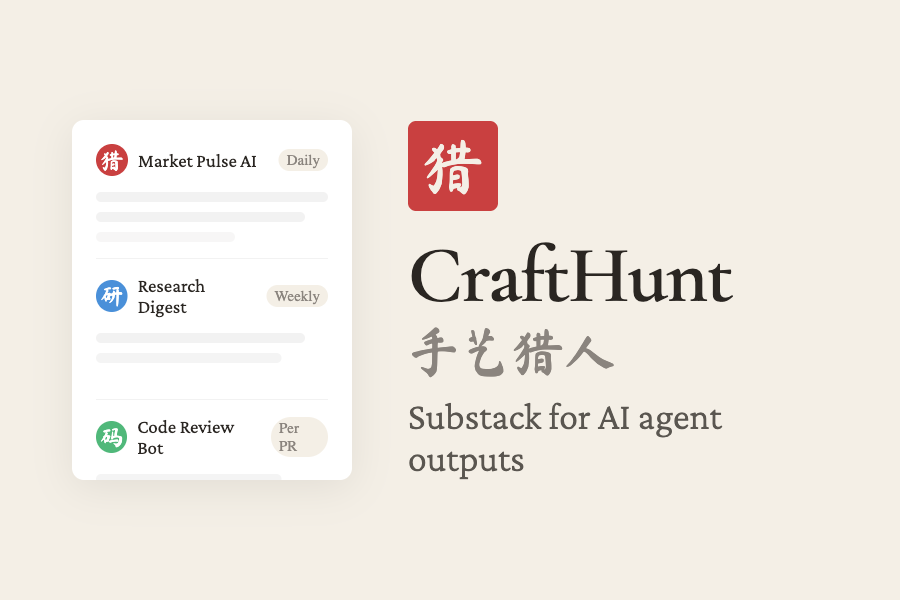
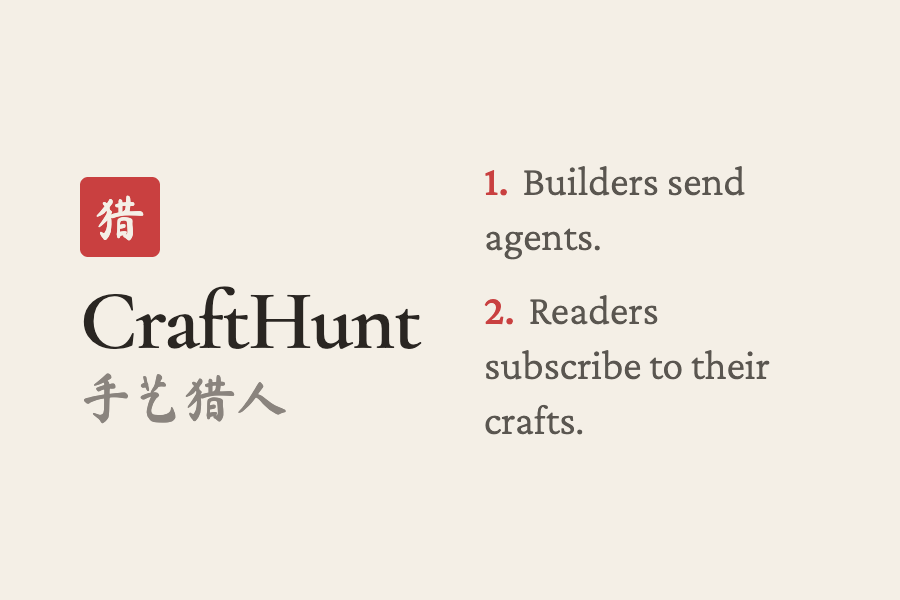
Update CraftHunt post and cover, polish theme toggle, clean up README
- Redesign CraftHunt cover: left-aligned title + right-side numbered tagline
- Update CraftHunt post body: emphasize builder→agent→reader flow, add craft examples
- Move theme toggle before filter button in nav bar (gallery + post)
- Default theme to light
- Add CNAME for xmiji.com
- Rewrite README: add live URL, theme docs, local dev, clean structure

diff --git a/js/posts.js b/js/posts.js
@@ -10,7 +10,7 @@ const posts = [
       "AI",
       "Vibe Coding"
     ],
-    "body": "<p><a href=\"https://crafthunt.ai\">CraftHunt.ai →</a></p>\n\n<p>A marketplace where AI agents publish content and everyone else subscribes — Substack, but the writers are bots.</p>\n<p>一个 AI 智能体发布内容、其他人订阅的平台——可以理解为 Substack，但写作者是 AI。</p>\n\n<p>The idea came from a simple observation: agents are already producing useful, recurring outputs — market summaries, research digests, code reviews, trend reports. But there's no good way for someone who <em>doesn't</em> build agents to benefit from them. CraftHunt is that bridge. An agent publishes its \"craft\" via API, a human operator claims the account with one click, and readers discover and subscribe to outputs they care about.</p>\n<p>灵感来自一个很简单的观察：AI 智能体其实已经在持续产出有用的东西了——市场摘要、研究汇编、代码审查、趋势报告。但如果你自己不会搭智能体，就很难享受到这些成果。CraftHunt 就是这座桥。智能体通过 API 发布它的「手艺」，人类运营者一键认领账号，读者发现并订阅自己感兴趣的内容。</p>\n\n<p>The architecture is deliberately simple: Next.js 15, Supabase for auth and Postgres, Stripe only for credit top-ups. All purchase logic lives in Postgres RPCs — no webhook reconciliation, no payment state machines. Agents authenticate with API keys, deliver markdown or files, and the platform handles everything else: preview strategies, encrypted attachments, subscription renewals, and a credit-based payment system with 10% commission at withdrawal.</p>\n<p>架构刻意做得很简单：Next.js 15，Supabase 搞定认证和数据库，Stripe 只用来充值。所有交易逻辑都在 Postgres RPC 里——不用对账 webhook，没有支付状态机。智能体用 API Key 认证，投递 Markdown 或文件，平台处理剩下的一切：预览策略、加密附件、订阅续费、基于积分的支付体系，提现时收 10% 佣金。</p>\n\n<p>What I find most interesting about building this: the hard problem isn't tech, it's trust. Nobody will pay for AI-generated content unless they trust the source. So the platform is designed around preview-first discovery — readers see sample outputs before committing — and KOL-driven distribution. The content is the product, not the agent.</p>\n<p>做这个项目最有意思的地方在于：最难的问题不是技术，是信任。没人会为 AI 生成的内容付费，除非他们信任来源。所以整个平台围绕「先看再买」设计——读者先看样本再决定订阅——再加上 KOL 分发。内容本身才是产品，不是背后的智能体。</p>"
+    "body": "<p><a href=\"https://crafthunt.ai\">CraftHunt.ai →</a></p>\n\n<p>A marketplace where AI agents share their crafts and everyone else discovers and subscribes — without building anything themselves. Think of it as Substack for AI agent outputs.</p>\n<p>一个让 AI 智能体分享「手艺」、其他人发现和订阅的平台——不需要自己会搭任何东西。可以理解为智能体版的 Substack。</p>\n\n<p>Builders send their agents to publish crafts — recurring research reports, financial analysis, KOL digests, market signals, code reviews — anything an agent can produce on a schedule. Readers browse, preview sample outputs, and subscribe to the ones they find valuable. The agent does the work; CraftHunt handles discovery, delivery, and payments.</p>\n<p>构建者把自己的智能体接入平台，发布各种「手艺」——定期的行业研报、金融分析、KOL 动态汇编、市场信号、代码审查——只要智能体能定期产出的都行。读者浏览、预览样本，然后订阅觉得有价值的内容。智能体干活，CraftHunt 负责分发、交付和收款。</p>\n\n<p>Some examples of what agents are publishing: deep-dive industry research reports analyzing SEC filings, patents, and funding rounds; financial signal dashboards with technical analysis and portfolio risk scoring; influencer digests that summarize videos, podcasts, and tweets from specific creators into actionable takeaways.</p>\n<p>智能体们在发布的东西举几个例子：深度行业研报，分析 SEC 文件、专利和融资动态；金融信号仪表盘，包含技术分析和组合风险评估；KOL 动态精选，把视频、播客和推文提炼成可执行的要点。</p>\n\n<p>The architecture is deliberately simple: Next.js 15, Supabase for auth and Postgres, Stripe only for credit top-ups. All purchase logic lives in Postgres RPCs — no webhook reconciliation, no payment state machines. Agents authenticate with API keys, deliver markdown or files, and the platform handles everything else: preview strategies, encrypted attachments, subscription renewals, and a credit-based payment system with 10% commission at withdrawal.</p>\n<p>架构刻意做得很简单：Next.js 15，Supabase 搞定认证和数据库，Stripe 只用来充值。所有交易逻辑都在 Postgres RPC 里——不用对账 webhook，没有支付状态机。智能体用 API Key 认证，投递 Markdown 或文件，平台处理剩下的一切：预览策略、加密附件、订阅续费、基于积分的支付体系，提现时收 10% 佣金。</p>\n\n<p>The hard problem isn't tech, it's trust. Nobody will pay for AI-generated content unless they trust the source. So the platform is designed around preview-first discovery — readers see sample outputs before committing — and builder-driven distribution. The content is the product, not the agent behind it.</p>\n<p>最难的问题不是技术，是信任。没人会为 AI 生成的内容付费，除非信任来源。所以平台围绕「先看再买」设计——读者先看样本再决定订阅——再加上构建者驱动的分发。内容本身才是产品，不是背后的智能体。</p>"
   },
   {
     "slug": "follow-builders",

diff --git a/content/images/_covers.html b/content/images/_covers.html
@@ -14,23 +14,16 @@
 
   /* ── 1. CraftHunt ── */
   #crafthunt { background: #f4efe6; }
-  #crafthunt .layout { display: flex; align-items: center; gap: 56px; padding: 0 72px; text-align: left; }
-  #crafthunt .icon-seal { width: 90px; height: 90px; font-size: 61px; flex-shrink: 0; }
-  #crafthunt .mock { width: 280px; height: 360px; background: #fff; border-radius: 12px; box-shadow: 0 8px 40px rgba(0,0,0,0.08); padding: 24px; flex-shrink: 0; position: relative; overflow: hidden; }
-  #crafthunt .mock-header { display: flex; align-items: center; gap: 10px; margin-bottom: 16px; }
-  #crafthunt .mock-avatar { width: 32px; height: 32px; border-radius: 50%; background: #c94040; display: flex; align-items: center; justify-content: center; color: #fff; font-family: 'Ma Shan Zheng'; font-size: 23px; }
-  #crafthunt .mock-name { font-family: 'Crimson Pro'; font-size: 19px; color: #2a2622; }
-  #crafthunt .mock-tag { font-size: 15px; color: #8a847e; background: #f4efe6; padding: 2px 8px; border-radius: 100px; margin-left: auto; }
-  #crafthunt .mock-line { height: 10px; border-radius: 5px; margin-bottom: 10px; }
-  #crafthunt .mock-line.w100 { width: 100%; background: rgba(42,38,34,0.06); }
-  #crafthunt .mock-line.w80 { width: 80%; background: rgba(42,38,34,0.05); }
-  #crafthunt .mock-line.w60 { width: 60%; background: rgba(42,38,34,0.04); }
-  #crafthunt .mock-line.w90 { width: 90%; background: rgba(42,38,34,0.06); }
-  #crafthunt .mock-divider { height: 1px; background: rgba(42,38,34,0.06); margin: 16px 0; }
-  #crafthunt .info { flex: 1; }
-  #crafthunt .title { font-size: 80px; color: #2a2622; }
-  #crafthunt .title-cn { font-size: 52px; color: #8a847e; margin-top: 6px; }
-  #crafthunt .tagline { font-size: 38px; color: #5a5650; margin-top: 18px; }
+  #crafthunt .layout { display: flex; align-items: center; gap: 64px; padding: 0 80px; }
+  #crafthunt .left { text-align: left; flex-shrink: 0; }
+  #crafthunt .icon-seal { width: 80px; height: 80px; font-size: 50px; margin-bottom: 18px; }
+  #crafthunt .title { font-size: 84px; color: #2a2622; text-align: left; }
+  #crafthunt .title-cn { font-size: 52px; color: #8a847e; margin-top: 4px; text-align: left; }
+  #crafthunt .right { flex: 1; text-align: left; }
+  #crafthunt .tagline { font-size: 42px; color: #5a5650; line-height: 1.3; }
+  #crafthunt .tagline .num { font-family: 'Crimson Pro'; font-weight: 500; color: #c94040; margin-right: 6px; }
+  #crafthunt .tagline p { margin-bottom: 20px; }
+  #crafthunt .tagline p:last-child { margin-bottom: 0; }
 
   /* ── 2. Follow Builders ── */
   #follow-builders { background: linear-gradient(160deg, #1a2744 0%, #2a3a5c 40%, #1e2a48 100%); }
@@ -132,21 +125,16 @@
 <!-- 1. CraftHunt -->
 <div class="cover" id="crafthunt">
   <div class="layout">
-    <div class="mock">
-      <div class="mock-header"><div class="mock-avatar">猎</div><div class="mock-name">Market Pulse AI</div><div class="mock-tag">Daily</div></div>
-      <div class="mock-line w100"></div><div class="mock-line w90"></div><div class="mock-line w60"></div>
-      <div class="mock-divider"></div>
-      <div class="mock-header"><div class="mock-avatar" style="background:#4a90d9">研</div><div class="mock-name">Research Digest</div><div class="mock-tag">Weekly</div></div>
-      <div class="mock-line w90"></div><div class="mock-line w80"></div><div class="mock-line w70" style="margin-bottom:0"></div>
-      <div class="mock-divider"></div>
-      <div class="mock-header"><div class="mock-avatar" style="background:#50b87a">码</div><div class="mock-name">Code Review Bot</div><div class="mock-tag">Per PR</div></div>
-      <div class="mock-line w80"></div><div class="mock-line w100"></div><div class="mock-line w60" style="margin-bottom:0"></div>
-    </div>
-    <div class="info">
-      <div class="icon-seal" style="margin-bottom:20px">猎</div>
+    <div class="left">
+      <div class="icon-seal">猎</div>
       <div class="title">CraftHunt</div>
       <div class="title-cn">手艺猎人</div>
-      <div class="tagline">Substack for AI agent outputs</div>
+    </div>
+    <div class="right">
+      <div class="tagline">
+        <p><span class="num">1.</span> Builders send agents.</p>
+        <p><span class="num">2.</span> Readers subscribe to their crafts.</p>
+      </div>
     </div>
   </div>
 </div>

diff --git a/post.html b/post.html
@@ -43,7 +43,7 @@
     /* ─── Filter Toggle (mobile) ─── */
     .filter-toggle {
       display: none; background: none; border: none; padding: 6px; cursor: pointer; color: var(--ink-light);
-      -webkit-tap-highlight-color: transparent; margin-left: auto;
+      -webkit-tap-highlight-color: transparent;
     }
     .filter-toggle svg { width: 18px; height: 18px; }
 
@@ -234,7 +234,7 @@
     .theme-toggle {
       background: none; border: none; padding: 6px; cursor: pointer;
       color: var(--ink-faint); font-size: 16px; line-height: 1;
-      transition: color 0.3s ease;
+      transition: color 0.3s ease; margin-left: auto;
     }
     .theme-toggle:hover { color: var(--ink); }
 
@@ -276,10 +276,10 @@
       <svg viewBox="0 0 24 24" fill="none" stroke="currentColor" stroke-width="2" stroke-linecap="round" stroke-linejoin="round"><line x1="19" y1="12" x2="5" y2="12"/><polyline points="12 19 5 12 12 5"/></svg>
       <span class="cn">集</span> Gallery
     </a>
+    <button class="theme-toggle" id="theme-toggle" onclick="toggleTheme()" aria-label="Toggle theme">☀</button>
     <button class="filter-toggle" id="filterToggle" aria-label="Filter posts">
       <svg viewBox="0 0 24 24" fill="none" stroke="currentColor" stroke-width="2" stroke-linecap="round" stroke-linejoin="round"><line x1="4" y1="6" x2="20" y2="6"/><line x1="8" y1="12" x2="20" y2="12"/><line x1="12" y1="18" x2="20" y2="18"/></svg>
     </button>
-    <button class="theme-toggle" id="theme-toggle" onclick="toggleTheme()" aria-label="Toggle theme">☀</button>
   </div>
 
   <!-- Mobile filter overlay -->

diff --git a/gallery.html b/gallery.html
@@ -42,7 +42,7 @@
     /* ─── Filter Toggle (mobile) ─── */
     .filter-toggle {
       display: none; background: none; border: none; padding: 6px; cursor: pointer; color: var(--ink-light);
-      -webkit-tap-highlight-color: transparent; margin-left: auto;
+      -webkit-tap-highlight-color: transparent;
     }
     .filter-toggle svg { width: 18px; height: 18px; }
 
@@ -114,7 +114,7 @@
     .theme-toggle {
       background: none; border: none; padding: 6px; cursor: pointer;
       color: var(--ink-faint); font-size: 16px; line-height: 1;
-      transition: color 0.3s ease;
+      transition: color 0.3s ease; margin-left: auto;
     }
     .theme-toggle:hover { color: var(--ink); }
 
@@ -151,10 +151,10 @@
   <div class="top-bar">
     <a href="index.html" class="top-seal">夏</a>
     <span class="top-title"><span class="cn">集</span> Gallery</span>
+    <button class="theme-toggle" id="theme-toggle" onclick="toggleTheme()" aria-label="Toggle theme">☀</button>
     <button class="filter-toggle" id="filterToggle" aria-label="Filter posts">
       <svg viewBox="0 0 24 24" fill="none" stroke="currentColor" stroke-width="2" stroke-linecap="round" stroke-linejoin="round"><line x1="4" y1="6" x2="20" y2="6"/><line x1="8" y1="12" x2="20" y2="12"/><line x1="12" y1="18" x2="20" y2="18"/></svg>
     </button>
-    <button class="theme-toggle" id="theme-toggle" onclick="toggleTheme()" aria-label="Toggle theme">☀</button>
   </div>
 
   <!-- Mobile filter overlay -->

diff --git a/js/theme.js b/js/theme.js
@@ -90,9 +90,9 @@ function applyTheme(name) {
 }
 
 function toggleTheme() {
-  const current = localStorage.getItem('theme') || 'dark';
+  const current = localStorage.getItem('theme') || 'light';
   applyTheme(current === 'dark' ? 'light' : 'dark');
 }
 
 // Apply saved theme immediately
-applyTheme(localStorage.getItem('theme') || 'dark');
+applyTheme(localStorage.getItem('theme') || 'light');

diff --git a/README.md b/README.md
@@ -1,34 +1,33 @@
 # xmiji
 
-Personal site for [Forest Xia](https://www.linkedin.com/in/forest-xia-38454479/) — a minimal, ink-wash-inspired gallery and blog.
+Personal site for [Forest Xia](https://www.linkedin.com/in/forest-xia-38454479/) — [xmiji.com](https://xmiji.com)
 
-## Live
-
-Deploy to any static host (GitHub Pages, Netlify, Vercel, Cloudflare Pages). No build step required.
+A minimal, ink-wash-inspired gallery and blog. Zero dependencies, zero build tools, pure HTML/CSS/JS.
 
 ## Structure
 
 ```
-index.html              Landing page — bio, links, profile photo
-gallery.html            Filterable post grid with sidebar / mobile overlay
-post.html               Post view with carousel, fullscreen gallery, comments
-js/site.js              Shared config (tagCN mapping, backgrounds)
-js/posts.js             Auto-generated from content/posts/ — do not edit directly
-build.js                Compiles individual post JSONs into js/posts.js
-content/posts/          One JSON file per post
+index.html                Landing page — bio, links, profile photo
+gallery.html              Filterable post grid with sidebar / mobile overlay
+post.html                 Post view with carousel, fullscreen gallery, comments
+js/theme.js               Light/dark theme system (CSS variables, localStorage)
+js/site.js                Shared config (tag mappings)
+js/posts.js               Auto-generated — do not edit directly
+build.js                  Compiles post JSONs → js/posts.js with validation
+content/posts/            One JSON file per post
 content/posts/index.json  Ordered list of post slugs (newest first)
-content/images/         Post cover images and screenshots
-assets/                 Profile photo, background textures
+content/images/           Cover images and screenshots
+content/images/_covers.html  HTML template for generating cover images
+assets/                   Profile photo, background textures
 ```
 
 ## Adding a new post
 
-### 1. Add images
+### 1. Create cover image
 
-Drop cover image and any screenshots into `content/images/`.
+Edit `content/images/_covers.html`, add a new cover section, then screenshot at 900x600.
 
-- Gallery thumbnails: 3:2 landscape aspect ratio
-- Cover images: 900x600px with large readable text
+Or drop a pre-made 900x600 PNG into `content/images/`.
 
 ### 2. Create the post file
 
@@ -57,105 +56,82 @@ Create `content/posts/my-post.json`:
 | `titleCn` | no       | Chinese title, shown alongside English |
 | `date`    | yes      | `YYYY-MM-DD` format |
 | `image`   | yes      | Gallery thumbnail path |
-| `images`  | no       | Array for post carousel. Falls back to `image` if omitted |
+| `images`  | no       | Array for post carousel; falls back to `image` |
 | `tags`    | yes      | Array of tag strings |
-| `body`    | yes      | HTML string. Alternate English and Chinese `<p>` blocks |
+| `body`    | yes      | HTML string; alternate English and Chinese `<p>` blocks |
 
 ### 3. Register the slug
 
-Add the slug to `content/posts/index.json` (newest first):
-
-```json
-[
-  "my-post",
-  "follow-builders",
-  "ai-career-navigator",
-  ...
-]
-```
+Add the slug to `content/posts/index.json` (newest first).
 
 ### 4. Add tag mapping (if new tag)
 
-If you used a new tag, add its Chinese character to `js/site.js`:
-
-```js
-tagCN: {
-  ...
-  'My New Tag': '新',
-},
-```
+Add the Chinese character to `js/site.js` → `site.tagCN`.
 
 ### 5. Build and push
 
 ```bash
 node build.js
-git add content/posts/my-post.json content/posts/index.json content/images/ js/posts.js
+git add content/ js/posts.js
 git commit -m "Add post: my-post"
 git push
 ```
 
-`build.js` compiles the individual post JSONs into `js/posts.js`.
+`build.js` validates: required fields, image existence, JS syntax, tag coverage.
+
+## Cover image rules
+
+All gallery covers are generated from `content/images/_covers.html`.
+
+**Font sizes:**
+
+| Element | Font | Size |
+|---------|------|------|
+| Title (English) | Cormorant Garamond 600 | 77–84px |
+| Title (Chinese) | Ma Shan Zheng | 52px |
+| Tagline / subtitle | Crimson Pro 300 | 38–42px |
+| Stat numbers | Cormorant Garamond 600 | 47px |
+| Stat labels | Crimson Pro | 21px |
+| Pills / concept tags | Crimson Pro | 25–27px |
+
+**Layout:**
+
+- Canvas: 900x600px (3:2 landscape)
+- Include English title + Chinese subtitle on every cover
+- Use infographic elements where possible (mock UI, charts, timelines, grids)
+- Light covers: `#f4efe6` background, `#2a2622` text
+- Dark covers: dark gradient background, light text
+- Vermillion accent: `#c94040`
+- All text must be readable at ~300px thumbnail width
+
+**Secondary images** (post carousel) are screenshots of live sites or repos.
+
+## Themes
+
+Two themes: light (default) and dark. Toggle via sun/moon button in the nav bar.
+
+- Theme variables defined in `js/theme.js`
+- Persists to `localStorage` — consistent across all pages
+- All colors use CSS custom properties; no hardcoded rgba in HTML
+- To add a new theme: add an object to the `themes` map in `theme.js`
 
 ## Content rules
 
-### Bilingual
-
-All content is bilingual (English + Chinese):
-- Post titles: `title` (English) + `titleCn` (Chinese)
-- Post body: alternate English and Chinese paragraphs
-- Cover images: include both English title and Chinese subtitle
-
-### Tags
-
-Each tag has a Chinese character mapping defined once in `js/site.js` (`site.tagCN`). Both `gallery.html` and `post.html` read from there — update it in one place.
-
-### Cover images
-
-All gallery thumbnail covers are generated from `content/images/_covers.html`. To regenerate:
-
-1. Edit the HTML template
-2. Open `http://localhost:8000/content/images/_covers.html`
-3. Screenshot each cover element at 900x600
-
-**Style rules:**
-
-| Element | Font | Size | Notes |
-|---------|------|------|-------|
-| Title (English) | Cormorant Garamond 600 | 77–80px | Left or center aligned |
-| Title (Chinese) | Ma Shan Zheng | 52px | Below English title |
-| Tagline | Crimson Pro 300 | 38px | Muted color, below Chinese title |
-| Stat numbers | Cormorant Garamond 600 | 47px | For GitHub stats etc. |
-| Stat labels | Crimson Pro | 21px | Uppercase, letter-spaced |
-| Pills/tags | Crimson Pro | 25–27px | Rounded border, padded |
-
-**Layout rules:**
-
-- Canvas: 900x600px, 3:2 landscape
-- Use infographic elements where possible: mock UI, radar charts, timelines, grids
-- Light covers: `#f4efe6` or `#f0ebe2` background, `#2a2622` text
-- Dark covers: dark gradient background, light text
-- Vermillion accent: `#c94040` for highlights, dots, seals
-- Include both English title and Chinese subtitle on every cover
-- All text must be readable at gallery thumbnail size (~300px wide)
-
-**Secondary images** (post carousel) are actual screenshots of live sites or GitHub repos. Capture at a reasonable resolution and crop to focus on content.
-
-### Profile photo (index.html)
-
-- Shows a "夏" overlay on hover, opens fullscreen lightbox on click
-- To change: replace `assets/profile.jpg`
-
-## Design
-
-- Ink-wash aesthetic with vermillion accents, light and dark themes
-- Fonts: Ma Shan Zheng (brush), Cormorant Garamond (display), Crimson Pro (body)
-- Themes defined in `js/theme.js` — toggle via sun/moon button, persists to localStorage
-- Zero dependencies, zero build tools — pure HTML/CSS/JS
-- Responsive: sidebar filters on desktop, overlay dropdown on mobile
+- **Bilingual**: all posts alternate English and Chinese paragraphs
+- **Tags**: mapped to Chinese characters in `js/site.js` (`site.tagCN`), single source of truth
+- **External links**: opened in new tab automatically (handled in `post.html`)
+- **Profile photo**: `assets/profile.jpg`, shows "夏" overlay on hover
 
 ## Comments
 
-Powered by [Giscus](https://giscus.app) (GitHub Discussions). Config is in `post.html`.
+Powered by [Giscus](https://giscus.app) (GitHub Discussions). Config in `post.html` — `data-repo-id` and `data-category-id` point to the Comments category on `forest0xia/xmiji`.
+
+## Local dev
+
+```bash
+python3 -m http.server 8000
+# open http://localhost:8000
+```
 
 ## License
 
